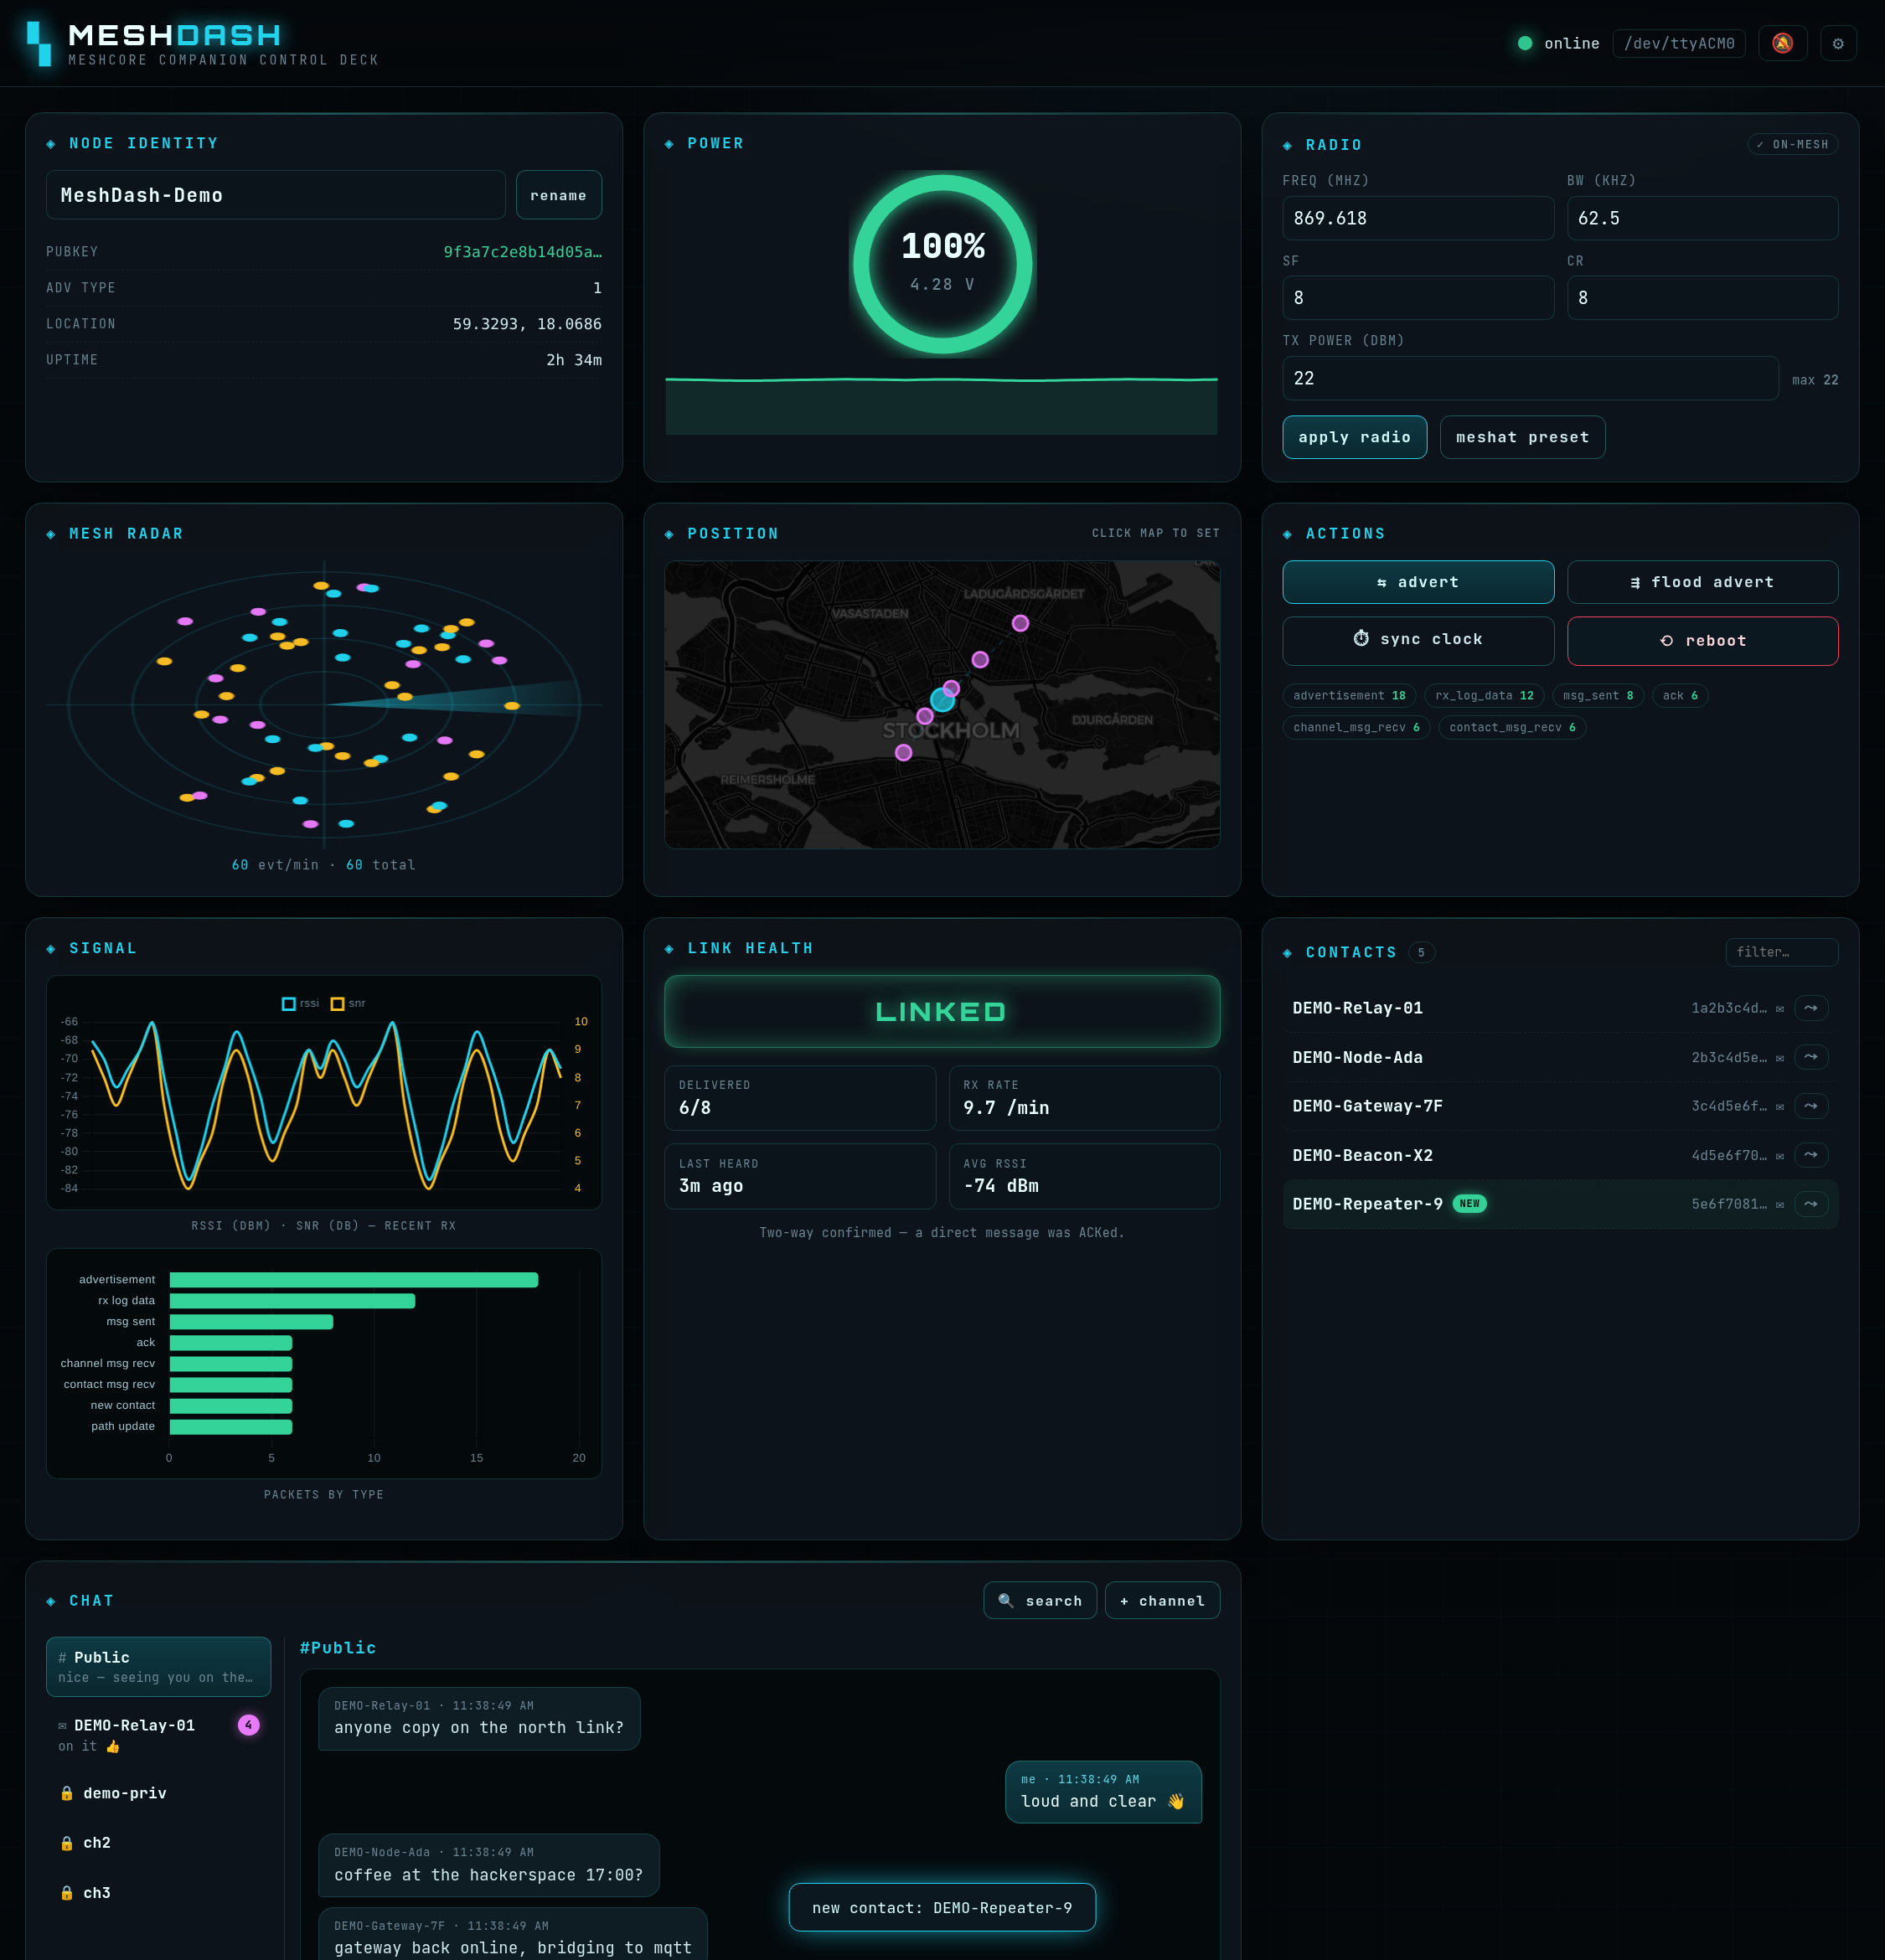
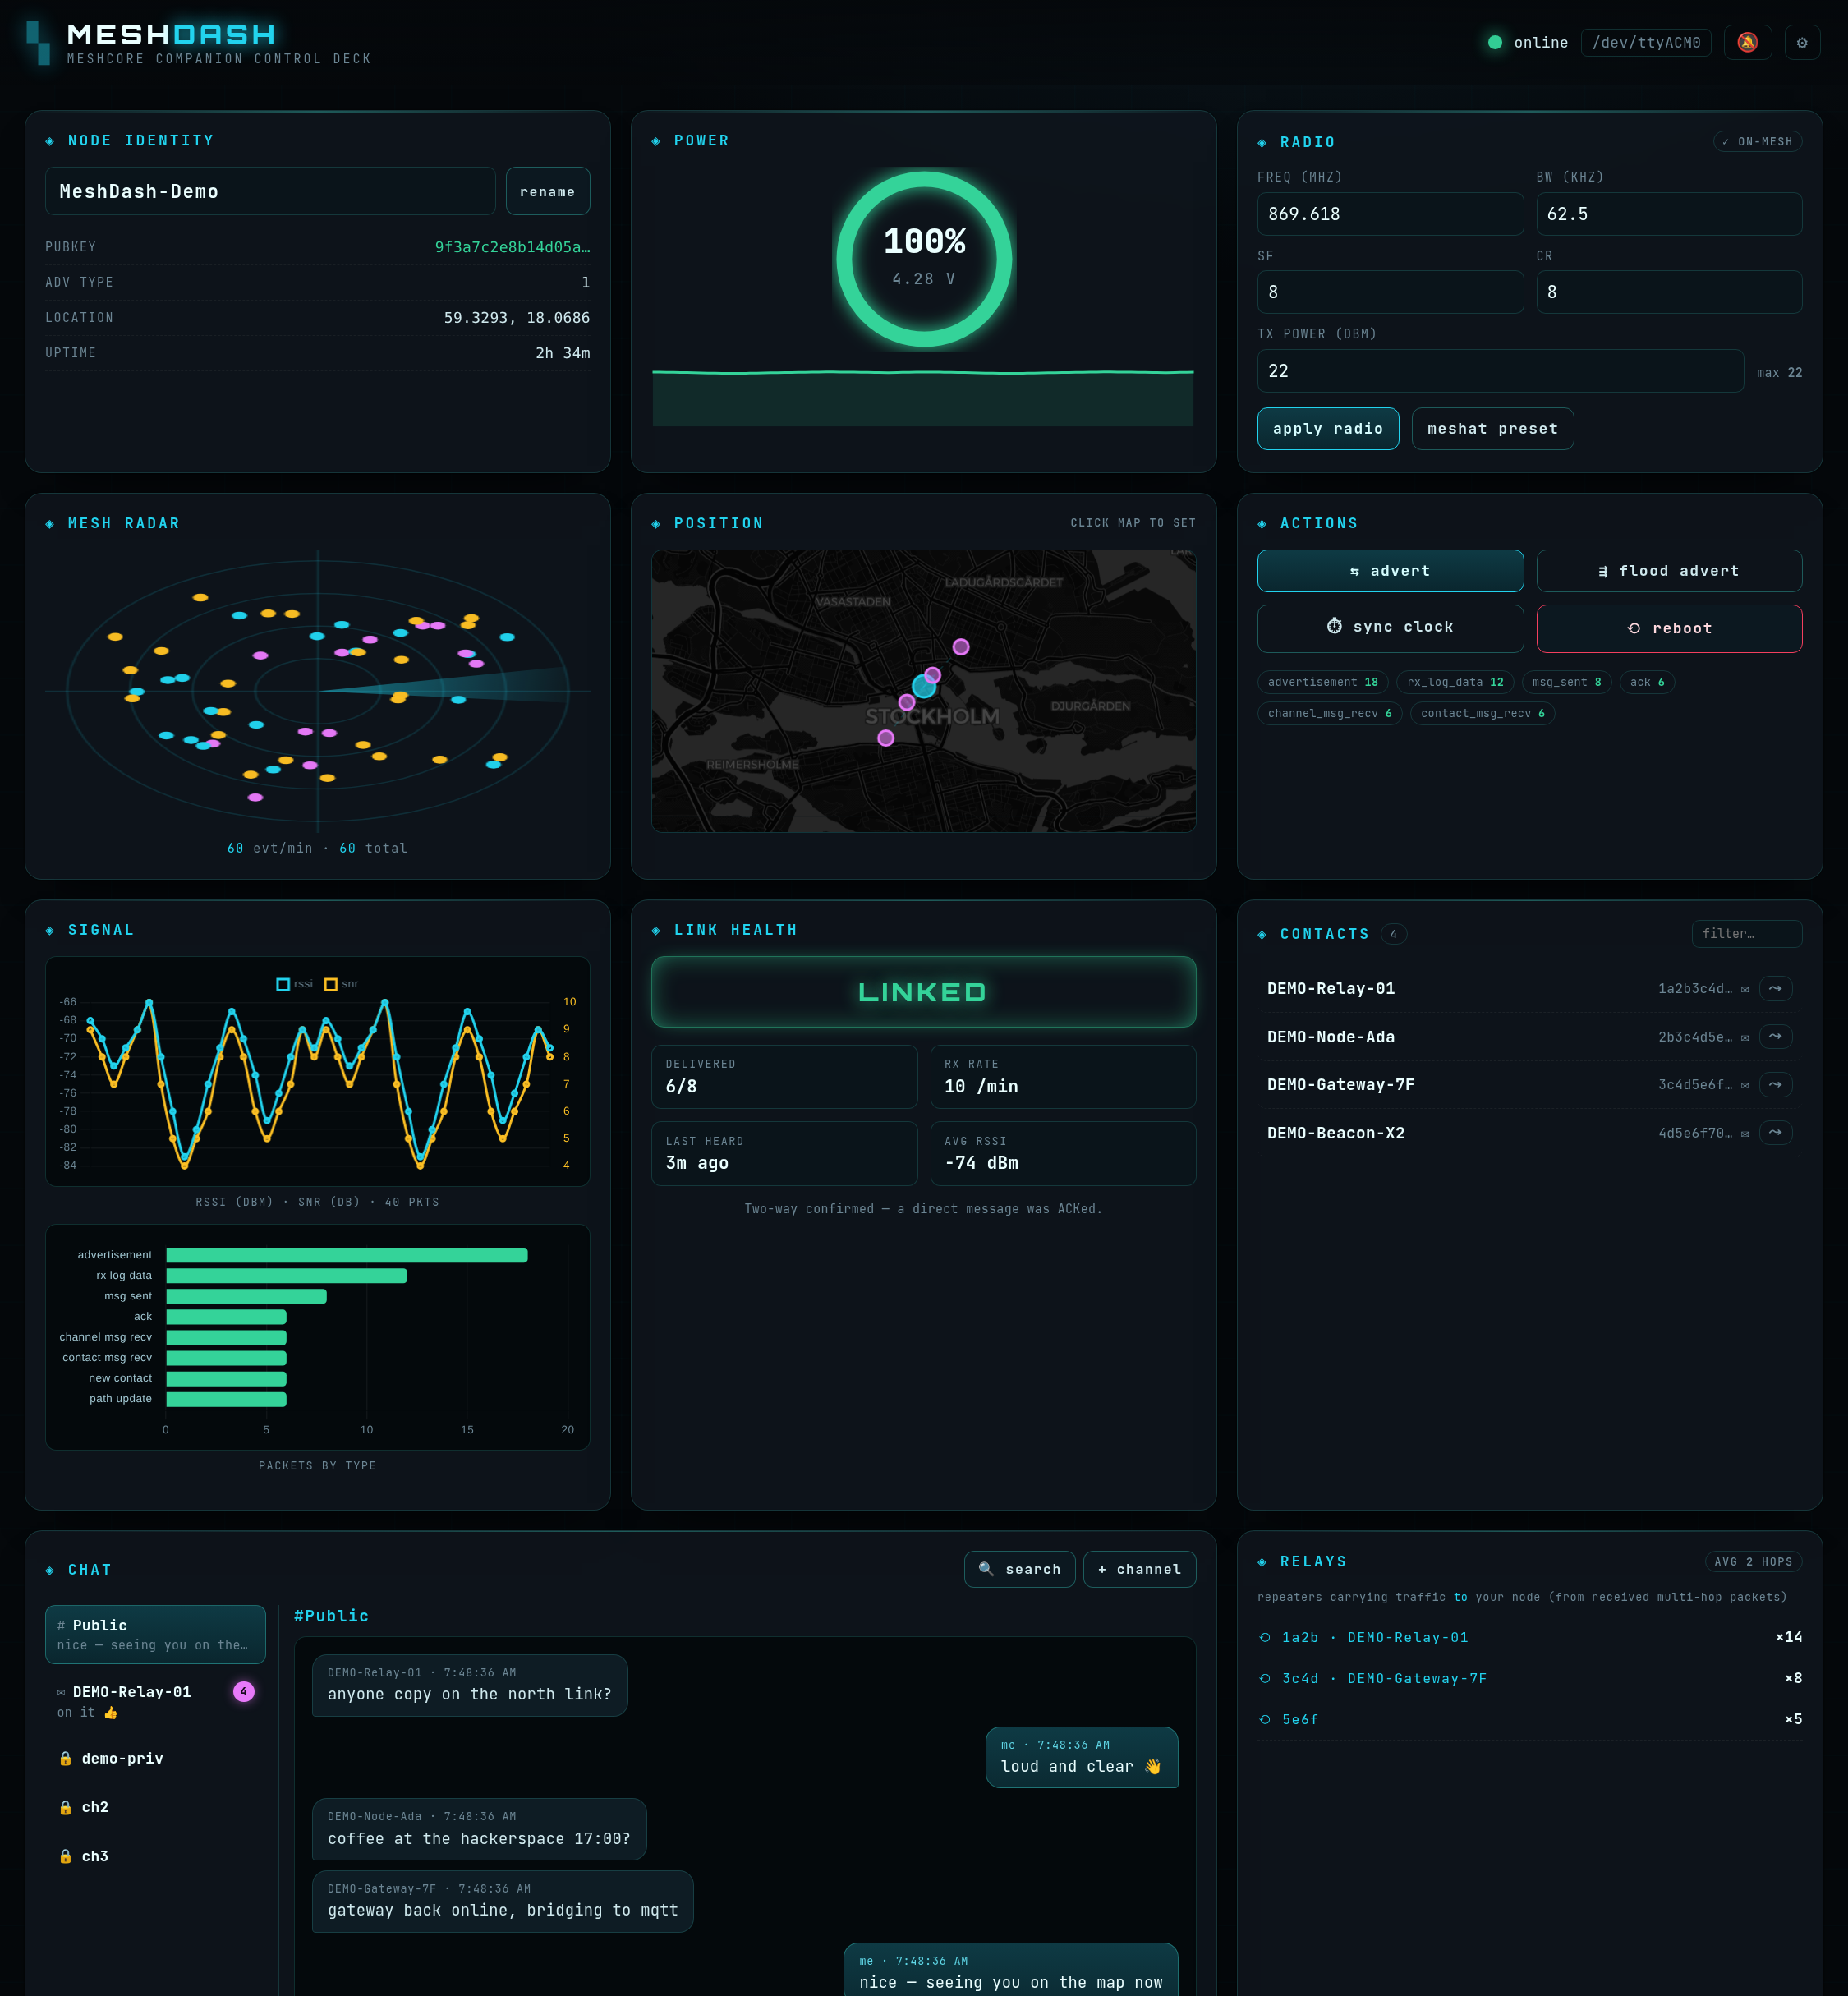
Add Relays panel: inbound routing relays + avg hops
New card surfaces which repeaters carry multi-hop traffic to the node and the
average hop count, aggregated from the path/path_len fields of received packets.
Hop-hashes resolve to contact names (pubkey-prefix match) in the frontend.
Status exposes a `relays` summary; demo seeds it; main screenshot refreshed.

diff --git a/static/app.js b/static/app.js
@@ -61,6 +61,20 @@ async function pollStatus(){
   $('#pkt-total').textContent = s.event_total||0;
   drawSignal(s.signal_history||[], ec);
   renderLink(s.link);
+  renderRelays(s.relays);
+}
+function renderRelays(r){
+  if(!r) return;
+  $('#relay-avg').textContent = r.avg_hops==null ? '—' : r.avg_hops;
+  const box=$('#relay-list'); if(!box) return;
+  if(!r.hops || !r.hops.length){
+    box.innerHTML='<div class="empty">no relayed packets heard yet — repeaters show up here as your node hears multi-hop traffic</div>'; return;
+  }
+  box.innerHTML = r.hops.map(h=>{
+    const pk=Object.keys(contactData).find(k=>k.toLowerCase().startsWith(h.hash.toLowerCase()));
+    const name = pk ? (contactData[pk].adv_name||contactData[pk].name) : null;
+    return `<div class="nd-kv"><span>⟲ ${esc(h.hash)}${name?' · '+esc(name):''}</span><b>×${h.count}</b></div>`;
+  }).join('');
 }
 function renderLink(l){
   if(!l) return;

diff --git a/static/style.css b/static/style.css
@@ -271,6 +271,13 @@ button.mini{padding:7px 11px;font-size:11px}
 .nd-kv code,.nd-kv b{color:#eaffff;font-size:12px;text-align:right;word-break:break-all}
 .nd-kv code.copy{cursor:pointer;color:var(--green)}
 
+/* relays panel */
+.relay-note{font-size:9px;color:var(--dim);letter-spacing:.5px;line-height:1.4;margin-bottom:10px}
+.relay-note em{color:var(--cyan);font-style:normal}
+.relay-list{max-height:220px;overflow-y:auto}
+.relay-list::-webkit-scrollbar{width:7px}.relay-list::-webkit-scrollbar-thumb{background:var(--line2);border-radius:4px}
+.relay-list .nd-kv span{text-transform:none;font-size:11px;color:var(--cyan)}
+
 /* chat header tools + search results */
 .chat-tools{display:flex;gap:6px;flex-wrap:wrap}
 .search-results{max-height:52vh;overflow-y:auto;margin-top:10px}

diff --git a/templates/index.html b/templates/index.html
@@ -163,6 +163,13 @@
     <div id="contacts" class="contacts"></div>
   </section>
 
+  <!-- RELAYS -->
+  <section class="card span-4" id="card-relays">
+    <h2>◈ relays <span class="tag">avg <b id="relay-avg">—</b> hops</span></h2>
+    <div class="relay-note">repeaters carrying traffic <em>to</em> your node (from received multi-hop packets)</div>
+    <div id="relay-list" class="relay-list"></div>
+  </section>
+
 </main>
 
 <div id="toast" class="toast" role="status" aria-live="polite"></div>

diff --git a/app.py b/app.py
@@ -117,6 +117,8 @@ pending_acks = {}                    # expected_ack hex -> outgoing message dict
 rf_times = deque(maxlen=800)         # timestamps of packets heard over the air
 RX_RF_TYPES = {"RX_LOG_DATA", "ADVERTISEMENT", "CONTACT_MSG_RECV", "CHANNEL_MSG_RECV",
                "ACK", "PATH_RESPONSE", "PATH_UPDATE", "NEW_CONTACT"}
+relay_hops = {}                      # path hop-hash -> times seen (inbound routing)
+path_len_samples = deque(maxlen=300)
 
 DB_PATH = os.path.join(os.path.dirname(os.path.abspath(__file__)), "meshdash.db")
 _db = None
@@ -207,6 +209,15 @@ def _on_event(ev):
             signal_history.append({"ts": time.time(),
                                    "rssi": payload.get("rssi"),
                                    "snr": payload.get("snr")})
+        _path, _plen = payload.get("path"), payload.get("path_len")
+        if isinstance(_plen, int) and _plen >= 0:
+            path_len_samples.append(_plen)
+            if _path and _plen > 0:
+                chars = max(2, len(_path) // _plen)        # hex chars per hop
+                for i in range(0, len(_path), chars):
+                    h = _path[i:i + chars]
+                    if h:
+                        relay_hops[h] = relay_hops.get(h, 0) + 1
         if etype == "ACK":
             m = pending_acks.pop(payload.get("code"), None)
             if m:
@@ -371,6 +382,9 @@ def seed_demo():
         signal_history.append({"ts": now - (40 - i) * 20, "rssi": rs[i % len(rs)], "snr": sn[i % len(sn)]})
     for i in range(30):
         rf_times.append(now - i * 6)
+    # inbound routing (relays carrying traffic to us) — hashes match demo pubkey prefixes
+    relay_hops.update({"1a2b": 14, "3c4d": 8, "5e6f": 5})
+    path_len_samples.extend([2, 2, 3, 1, 2, 3, 2, 2, 1, 2])
     samples = [
         ("ADVERTISEMENT", {"public_key": _DEMO_NODES[0][0]}),
         ("NEW_CONTACT", {"adv_name": "DEMO-Beacon-X2"}),
@@ -460,6 +474,12 @@ def api_status():
         "event_counts": event_counts,
         "event_total": _event_id,
         "signal_history": list(signal_history),
+        "relays": {
+            "avg_hops": round(sum(path_len_samples) / len(path_len_samples), 1) if path_len_samples else None,
+            "samples": len(path_len_samples),
+            "hops": sorted(({"hash": h, "count": c} for h, c in relay_hops.items()),
+                           key=lambda x: -x["count"])[:10],
+        },
     })
 
 

diff --git a/README.md b/README.md
@@ -22,6 +22,8 @@ Python library and serves a single-page dashboard with a live view of the mesh.
   not being heard — broadcasts like adverts don't ACK).
 - **Live mesh map** (Leaflet) — your node *and every neighbour* plotted with links; click
   the map to set your own position.
+- **Relays** — the repeaters carrying multi-hop traffic *to* your node, with average hop
+  count, resolved to node names (derived from received packet paths).
 - **Chat** — a thread sidebar with **unread badges** covering the public channel,
   add/name **private channels** (optional secret passphrase), and **1-to-1 PMs** with
   **delivery ticks** (✓ sent → ✓✓ delivered, driven by mesh ACKs).